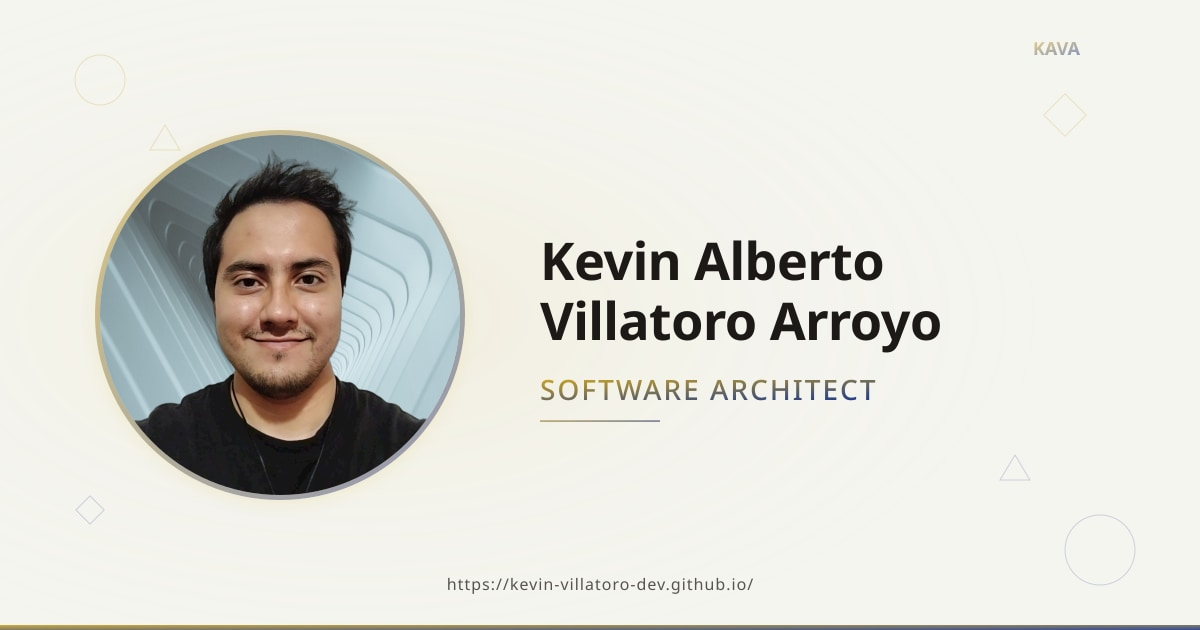
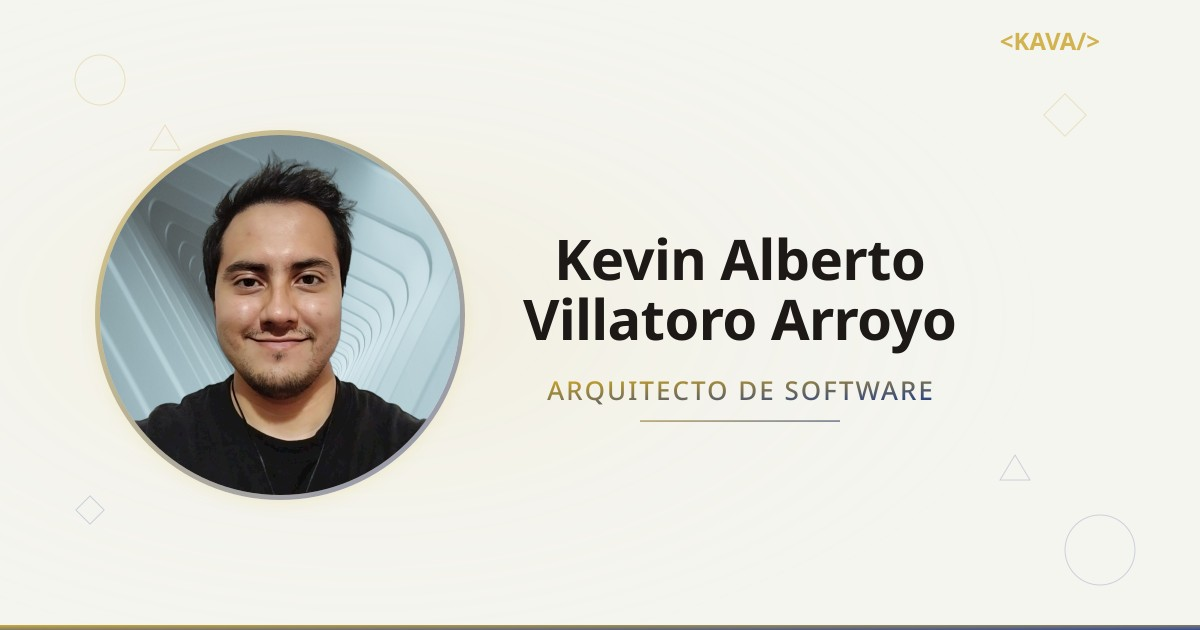
(reorganizacion): Convencion en imagenes, separacion de assets, brands y otros

diff --git a/brand/README.md b/brand/README.md
@@ -1,0 +1,21 @@
+# Brand Assets
+
+Archivos de marca personal de Kevin Villatoro para uso externo.
+No son parte del sitio web — se usan en redes sociales, LinkedIn, GitHub, etc.
+
+## Archivos
+
+| Archivo | Formato | Uso |
+|---|---|---|
+| `og-image-dark.svg` | SVG | Open Graph preview (tema oscuro) |
+| `og-image-light.svg` | SVG | Open Graph preview (tema claro) |
+| `banner-dark.svg` | SVG | Twitter/X card (tema oscuro) |
+| `banner-light.svg` | SVG | Twitter/X card (tema claro) |
+| `banner-animated-dark.gif` | GIF | Banner animado (tema oscuro) |
+| `banner-animated-light.gif` | GIF | Banner animado (tema claro) |
+
+## Notas
+
+- Las versiones JPG de OG images y banners están en `public/` (optimizadas para el sitio)
+- Estas son las fuentes vectoriales/animadas para edición y uso externo
+- Tamaño total: ~5.7MB
